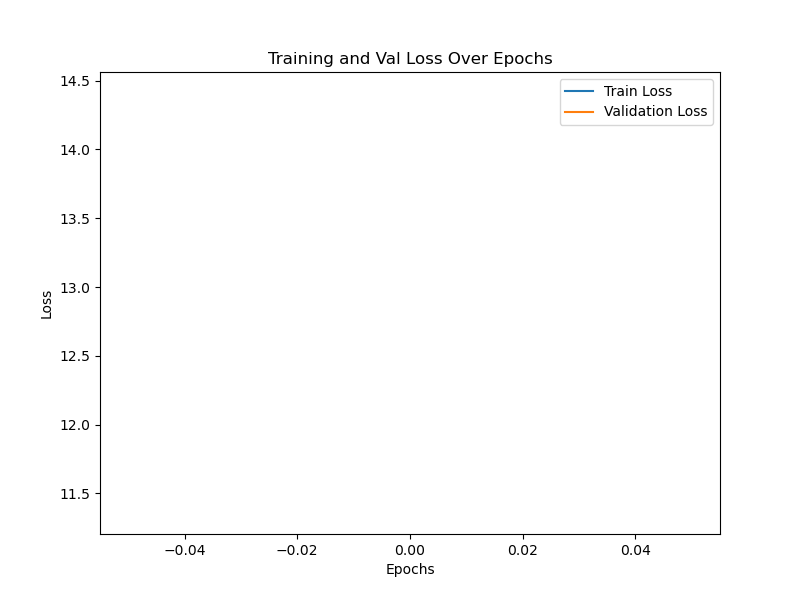
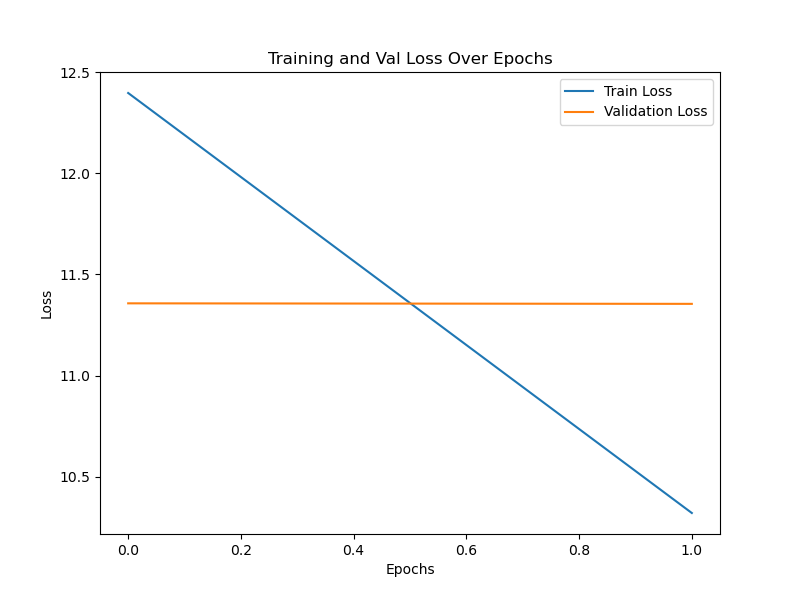
Added Deep Supervision to UNet++

diff --git a/QTracker_prod/models/TrackFinder_unetpp.py b/QTracker_prod/models/TrackFinder_unetpp.py
@@ -11,11 +11,62 @@ import tensorflow as tf
 from tensorflow.keras import layers, regularizers
 from tensorflow.keras.callbacks import EarlyStopping, ReduceLROnPlateau
 
-from losses import custom_loss
-from data_loader import load_data
-
 # Ensure the checkpoints directory exists
 os.makedirs("checkpoints", exist_ok=True)
+
+
+def load_data(root_file):
+    f = ROOT.TFile.Open(root_file, "READ")
+    tree = f.Get("tree")
+
+    if not tree:
+        print("Error: Tree not found in file.")
+        return None, None, None
+
+    num_detectors = 62
+    num_elementIDs = 201
+
+    X = []
+    y_muPlus = []
+    y_muMinus = []
+
+    for event in tree:
+        event_hits_matrix = np.zeros((num_detectors, num_elementIDs), dtype=np.float32)
+
+        for det_id, elem_id in zip(event.detectorID, event.elementID):
+            if 0 <= det_id < num_detectors and 0 <= elem_id < num_elementIDs:
+                event_hits_matrix[det_id, elem_id] = 1
+
+        mu_plus_array = np.array(event.HitArray_mup, dtype=np.int32)
+        mu_minus_array = np.array(event.HitArray_mum, dtype=np.int32)
+
+        X.append(event_hits_matrix)
+        y_muPlus.append(mu_plus_array)
+        y_muMinus.append(mu_minus_array)
+
+    X = np.array(X)[..., np.newaxis]  # Shape: (num_events, 62, 201, 1)
+    y_muPlus = np.array(y_muPlus)
+    y_muMinus = np.array(y_muMinus)
+
+    return X, y_muPlus, y_muMinus
+
+
+def custom_loss(y_true, y_pred):
+    y_muPlus_true, y_muMinus_true = tf.split(y_true, num_or_size_splits=2, axis=1)
+    y_muPlus_pred, y_muMinus_pred = tf.split(y_pred, num_or_size_splits=2, axis=1)
+
+    y_muPlus_true = tf.squeeze(y_muPlus_true, axis=1)
+    y_muMinus_true = tf.squeeze(y_muMinus_true, axis=1)
+
+    y_muPlus_pred = tf.squeeze(y_muPlus_pred, axis=1)
+    y_muMinus_pred = tf.squeeze(y_muMinus_pred, axis=1)
+
+    loss_mup = tf.keras.losses.sparse_categorical_crossentropy(y_muPlus_true, y_muPlus_pred)
+    loss_mum = tf.keras.losses.sparse_categorical_crossentropy(y_muMinus_true, y_muMinus_pred)
+
+    overlap_penalty = tf.reduce_sum(tf.square(y_muPlus_pred - y_muMinus_pred), axis=-1)
+
+    return tf.reduce_mean(loss_mup + loss_mum + 0.1 * overlap_penalty)
 
 
 def conv_block(x, filters, l2=1e-4, use_bn=False, dropout_bn=0.0, dropout_enc=0.0):
@@ -61,6 +112,7 @@ def build_model(
     use_bn=False,
     dropout_bn=0.0,
     dropout_enc=0.0,
+    deep_supervision=False,
 ):
     input_layer = layers.Input(shape=(num_detectors, num_elementIDs, 1))
 
@@ -102,8 +154,13 @@ def build_model(
             X[i][j] = conv_block(layers.Concatenate()(concat_parts), filters[i], use_bn=use_bn)
 
     # Logits
-    x = layers.Cropping2D(cropping=padding)(X[0][len(filters)-1])
-    x = layers.Conv2D(2, kernel_size=1)(x)
+    if deep_supervision:
+        x = layers.Average()([
+            head(X[0][j], padding, name=f'logits_{j}') for j in range(1, len(filters))
+        ])
+    else:
+        j = len(filters)-1
+        x = head(X[0][j], padding, name=f'logits_{j}')
 
     # Output layer
     x = layers.Softmax(axis=2)(x)  # softmax over elementID
@@ -125,6 +182,7 @@ def train_model(
     use_bn=False,
     dropout_bn=0.0,
     dropout_enc=0.0,
+    deep_supervision=True,
 ):
     X_train, y_muPlus_train, y_muMinus_train = load_data(train_root_file)
     if X_train is None:
@@ -148,7 +206,8 @@ def train_model(
     )
 
     model = build_model(
-        use_bn=use_bn, dropout_bn=dropout_bn, dropout_enc=dropout_enc
+        use_bn=use_bn, dropout_bn=dropout_bn, 
+        dropout_enc=dropout_enc, deep_supervision=deep_supervision,
     )
 
     optimizer = tf.keras.optimizers.Adam(learning_rate=learning_rate)
@@ -177,7 +236,7 @@ def train_model(
     plt.savefig(os.path.join(plot_dir, "losses.png"))
     plt.show()
 
-    model.save(output_model)
+    model.save_weights(output_model)
     print(f"Model saved to {output_model}")
 
 
@@ -194,7 +253,7 @@ if __name__ == "__main__":
     parser.add_argument(
         "--output_model",
         type=str,
-        default="checkpoints/track_finder_unetpp.h5",
+        default="checkpoints/track_finder_unetpp.weights.h5",
         help="Path to save the trained model.",
     )
     parser.add_argument(
@@ -224,6 +283,12 @@ if __name__ == "__main__":
         default=0.0,
         help="Dropout rate for encoder blocks.",
     )
+    parser.add_argument(
+        "--deep_supervision",
+        type=int,
+        default=1,
+        help="Flag to enable deep supervision: [0 = False, 1 = True].",
+    )
     args = parser.parse_args()
 
     train_model(
@@ -235,4 +300,5 @@ if __name__ == "__main__":
         use_bn=bool(args.batch_norm),
         dropout_bn=args.dropout_bn,  # recommend 0.5 as starting point,
         dropout_enc=args.dropout_enc,  # recommend 0.1-0.3 as starting point
+        deep_supervision=bool(args.deep_supervision),
     )

diff --git a/QTracker_prod/evaluate.py b/QTracker_prod/evaluate.py
@@ -12,6 +12,7 @@ import pandas as pd
 
 # core TrackFinder loaders / custom loss
 from models import data_loader
+from models import TrackFinder_unetpp
 from models.losses import custom_loss
 import QTracker_prod
 from refine import refine_hit_arrays
@@ -39,7 +40,7 @@ def plot_residuals(det_ids, res_plus, res_minus, model_path, stage_label):
     plt.savefig(os.path.join(plot_dir, fname))
     plt.show()
 
-def evaluate_model(root_file, model_path):
+def evaluate_model(root_file, model_path, use_bn=False):
     X_test, y_muPlus_test, y_muMinus_test = data_loader.load_data(root_file)
     if X_test is None:
         return
@@ -57,7 +58,11 @@ def evaluate_model(root_file, model_path):
         "Adam":        tf.keras.optimizers.legacy.Adam
     }
     with tf.keras.utils.custom_object_scope(custom_objects):
-        model = tf.keras.models.load_model(model_path)
+        if ".weights.h5" in model_path:
+            model = TrackFinder_unetpp.build_model(use_bn=use_bn, deep_supervision=False)
+            model.load_weights(model_path)
+        else:
+            model = tf.keras.models.load_model(model_path)
 
     y_pred = model.predict(X_test)  # shape: (num_events, 2, num_detectors, num_elementids)
 
@@ -157,7 +162,8 @@ if __name__ == '__main__':
     )
     parser.add_argument("root_file",  type=str, help="Path to the val/test ROOT file.")
     parser.add_argument("model_path", type=str, help="Path to the saved model file (.h5 or .keras).")
+    parser.add_argument("--batch_norm", type=int, default=0, help="Flag to set batch normalization: [0 = False, 1 = True].")
     args = parser.parse_args()
 
     print(f"\nResults for {args.model_path}...")
-    evaluate_model(args.root_file, args.model_path)
+    evaluate_model(args.root_file, args.model_path, bool(args.batch_norm))
